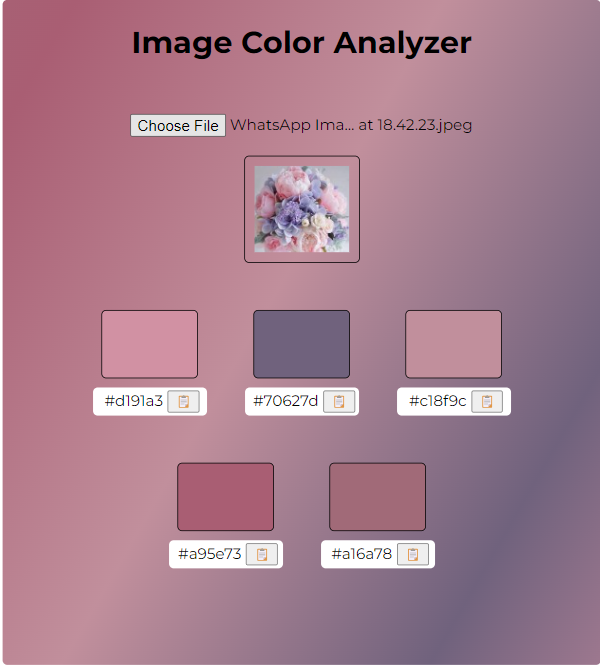
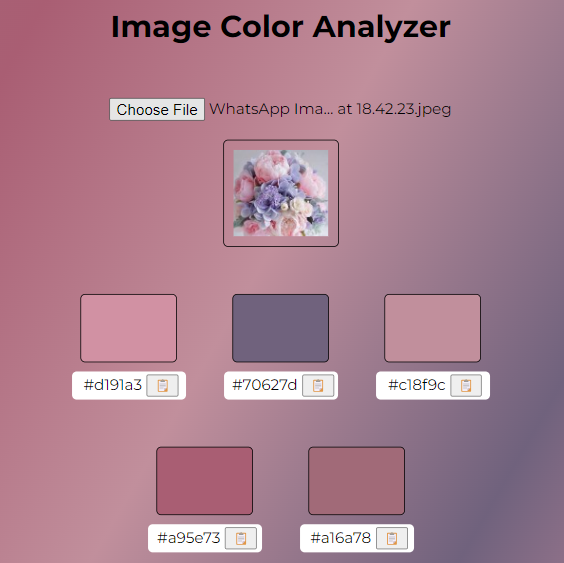
Width and hr

diff --git a/css/styles.css b/css/styles.css
@@ -24,7 +24,7 @@ hr {
   display: block;
   text-align: center;
   margin-bottom: 30px;
-  width: 70%;
+  width: 95%;
 }
 
 .container {
@@ -35,7 +35,7 @@ hr {
   align-items: center;
   padding: 0 10%;
   height: 320px;
-  max-width: 800px;
+  max-width: 1000px;
   /*background: linear-gradient(300deg, #00bfff, #808080, #b5faff);*/
   background-size: 180% 180%;
   /*animation: gradient-animation 18s ease infinite;*/
@@ -92,9 +92,7 @@ img {
         height: auto;
     }
 }
-/*.container p {*/
-/*  color: white;*/
-/*}*/
+
 svg {
   position: relative;
   right: 15%;

diff --git a/index.html b/index.html
@@ -171,6 +171,10 @@
         div.appendChild(link);
         div.appendChild(paragraph);
 
+        const hr = document.createElement("hr");
+
         container.appendChild(div);
+        container.appendChild(hr);
+
     });
 </script>
